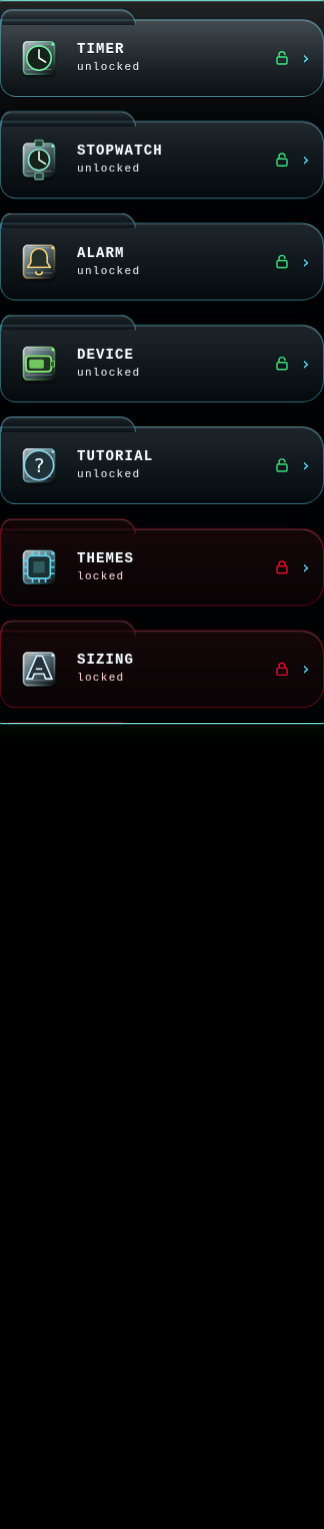
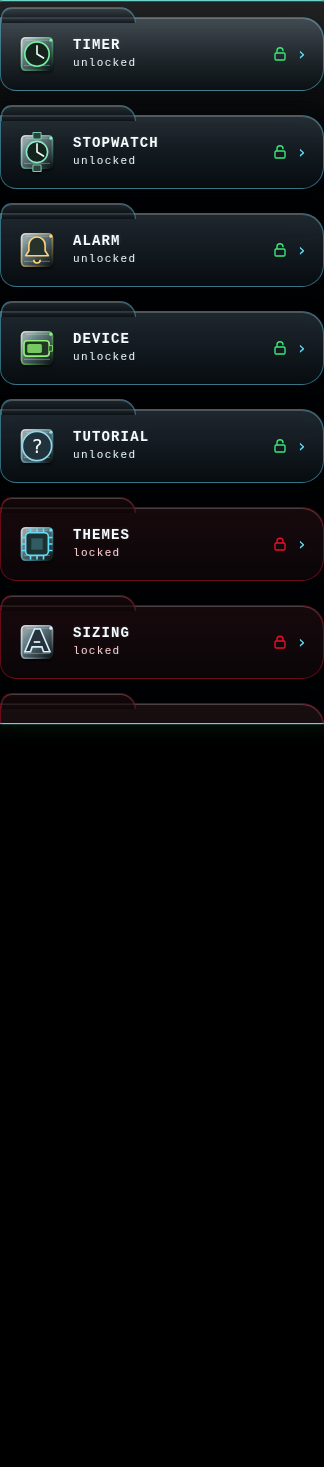
Fix folder edge drops and align 8dp layout

diff --git a/auric-web/src/styles/folders.css b/auric-web/src/styles/folders.css
@@ -23,8 +23,8 @@
   display: inline-flex;
   align-items: center;
   justify-content: center;
-  min-width: 44px;
-  min-height: 44px;
+  min-width: 48px;
+  min-height: 48px;
   border: 1px solid color-mix(in oklab, var(--tx-cyan) 48%, transparent);
   border-radius: 16px;
   background: color-mix(in oklab, var(--tx-bg) 86%, transparent);
@@ -47,11 +47,11 @@
   container-type: inline-size;
   display: grid;
   grid-template-columns: repeat(var(--tx-folder-columns, 1), minmax(0, 1fr));
-  gap: 14px;
+  gap: 16px;
   width: 100%;
   min-width: 0;
   max-width: 100%;
-  margin: 10px 0 16px;
+  margin: 8px 0 16px;
   /* Keep the existing 4px list inset for the legacy folder-list baseline. */
   padding: 8px 0 4px;
   list-style: none;
@@ -65,8 +65,7 @@
   position: relative;
   min-width: 0;
   max-width: 100%;
-  /* The existing folder artwork used a 10px top offset for its tab. */
-  padding-top: 10px;
+  padding-top: 8px;
 }
 .tx-folder-grid[data-layout="single"] > li { min-height: 100%; }
 .tx-folder-tile {
@@ -74,7 +73,7 @@
   width: 100%;
   min-width: 0;
   max-width: 100%;
-  min-height: max(44px, var(--tx-folder-row-height, 72px));
+  min-height: max(48px, var(--tx-folder-row-height, 72px));
   padding: 0;
   overflow: visible;
   touch-action: pan-y;
@@ -82,12 +81,12 @@
 }
 .tx-folder-row {
   grid-template-columns: minmax(24px, var(--tx-folder-icon-size, 56px)) minmax(0, 1fr) auto auto;
-  gap: 10px;
+  gap: 8px;
   min-width: 0;
   max-width: 100%;
-  min-height: max(44px, var(--tx-folder-row-height, 72px));
+  min-height: max(48px, var(--tx-folder-row-height, 72px));
   margin-top: 0;
-  padding: 10px 12px 10px 10px;
+  padding: 8px 16px 8px 8px;
 }
 .tx-folder-icon {
   display: block;
@@ -242,7 +241,7 @@
   left: 8px;
   right: 8px;
   display: grid;
-  grid-template-columns: minmax(0, 1fr) 44px;
+  grid-template-columns: minmax(0, 1fr) 48px;
   align-items: center;
   gap: 8px;
 }
@@ -258,7 +257,7 @@
 .tx-folder-all-size > span { display: flex; justify-content: space-between; gap: 8px; }
 .tx-folder-control-close { grid-column: 2; grid-row: 1; }
 .tx-folder-size-popover input,
-.tx-folder-all-size input { width: 100%; min-height: 44px; accent-color: var(--tx-cyan); }
+.tx-folder-all-size input { width: 100%; min-height: 48px; accent-color: var(--tx-cyan); }
 .tx-folder-rename {
   z-index: 7;
   display: grid;
@@ -270,7 +269,7 @@
 .tx-folder-rename input {
   width: 100%;
   min-width: 0;
-  min-height: 44px;
+  min-height: 48px;
   padding: 8px;
   border: 1px solid color-mix(in oklab, var(--tx-cyan) 72%, transparent);
   border-radius: 8px;
@@ -343,7 +342,7 @@
 .tx-folder-style-name { min-width: 0; overflow: hidden; text-overflow: ellipsis; white-space: nowrap; font: 12px var(--font-type); }
 .tx-folder-style-row select {
   width: 100%;
-  min-height: 44px;
+  min-height: 48px;
   border: 1px solid color-mix(in oklab, var(--tx-cyan) 42%, transparent);
   border-radius: 8px;
   background: var(--tx-bg);

diff --git a/auric-web/src/components/auric/folder-grid.tsx b/auric-web/src/components/auric/folder-grid.tsx
@@ -115,7 +115,7 @@ export function FolderGrid({ preferences, beforeRects, onChangePreferences }: Fo
   const [sizeId, setSizeId] = useState<string | null>(null);
   const [renameId, setRenameId] = useState<string | null>(null);
   const [renameValue, setRenameValue] = useState("");
-  const [renamePlacement, setRenamePlacement] = useState({ left: 0, top: 0, width: 120, height: 44 });
+  const [renamePlacement, setRenamePlacement] = useState({ left: 0, top: 0, width: 120, height: 48 });
   const [singleIndex, setSingleIndex] = useState(0);
 
   const updatePreferences = onChangePreferences;
@@ -174,8 +174,8 @@ export function FolderGrid({ preferences, beforeRects, onChangePreferences }: Fo
     const label = button.querySelector<HTMLElement>(".tx-folder-name")?.getBoundingClientRect();
     if (!label) return;
     const left = Math.max(8, Math.min(tile.width - 56, label.left - tile.left - 8));
-    const top = Math.max(0, label.top - tile.top - Math.max(0, (44 - label.height) / 2));
-    setRenamePlacement({ left, top, width: Math.max(48, Math.min(tile.width - left - 8, Math.max(120, label.width + 16))), height: 44 });
+    const top = Math.max(0, label.top - tile.top - Math.max(0, (48 - label.height) / 2));
+    setRenamePlacement({ left, top, width: Math.max(48, Math.min(tile.width - left - 8, Math.max(120, label.width + 16))), height: 48 });
     setRenameValue(preferences.folderNames[spec.id] ?? spec.pkg);
     setRenameId(spec.id);
     setSizeId(null);
@@ -271,11 +271,18 @@ export function FolderGrid({ preferences, beforeRects, onChangePreferences }: Fo
       const delta = event.clientX - interaction.startX;
       if (Math.abs(delta) >= 48) setSingleIndex((index) => Math.max(0, Math.min(rows.length - 1, index + (delta < 0 ? 1 : -1))));
     } else if (interaction.moved && !interaction.longPressed) {
-      const hovered = [...tileRefs.current].find(([id, item]) => {
-        if (id === interaction.id) return false;
-        const rect = item.getBoundingClientRect();
-        return event.clientX >= rect.left && event.clientX <= rect.right && event.clientY >= rect.top && event.clientY <= rect.bottom;
-      });
+      const insideViewport =
+        event.clientX >= 0 &&
+        event.clientX <= window.innerWidth &&
+        event.clientY >= 0 &&
+        event.clientY <= window.innerHeight;
+      const hovered = insideViewport
+        ? [...tileRefs.current].find(([id, item]) => {
+            if (id === interaction.id) return false;
+            const rect = item.getBoundingClientRect();
+            return event.clientX >= rect.left && event.clientX <= rect.right && event.clientY >= rect.top && event.clientY <= rect.bottom;
+          })
+        : undefined;
       const targetId = hovered?.[0];
       const targetButton = hovered?.[1].querySelector<HTMLButtonElement>(".tx-folder-tile") ?? null;
       const targetRect = targetButton?.getBoundingClientRect();

diff --git a/auric-web/src/lib/folder-layout.ts b/auric-web/src/lib/folder-layout.ts
@@ -92,7 +92,7 @@ export function folderMetrics(size: number, containerWidth: number, layout: Fold
   return {
     iconPx,
     titlePx: 12 + safeSize * 0.04 + (layout === "single" ? 2 : 0),
-    rowHeight: layout === "single" ? Math.max(96, 80 + safeSize * 0.32) : Math.max(44, 56 + safeSize * 0.32),
+    rowHeight: layout === "single" ? Math.max(96, 80 + safeSize * 0.32) : Math.max(48, 56 + safeSize * 0.32),
     columns,
     tileWidth,
   };
@@ -110,7 +110,7 @@ function clampRect(rect: Rect, bounds: Rect): Rect {
 export function paddedLabelRect(tileRect: Rect, labelRect: Rect): Rect {
   const left = Math.max(tileRect.x, labelRect.x - 8);
   const right = Math.min(tileRect.x + tileRect.width, labelRect.x + labelRect.width + 8);
-  const height = Math.max(44, labelRect.height);
+  const height = Math.max(48, labelRect.height);
   const top = labelRect.y - (height - labelRect.height) / 2;
   return clampRect(
     { x: left, y: top, width: Math.max(0, right - left), height },

diff --git a/auric-web/tests/l3-layout.test.ts b/auric-web/tests/l3-layout.test.ts
@@ -29,13 +29,13 @@ test("folder metrics clamp size and choose layout columns by available width", (
   assert.ok(folderMetrics(100, 320, "grid").iconPx < folderMetrics(100, 320, "big").iconPx);
 });
 
-test("label hit zone expands to 44px and stays within tile bounds", () => {
+test("label hit zone expands to 48px and stays within tile bounds", () => {
   const tile = { x: 0, y: 0, width: 160, height: 72 };
   const title = { x: 50, y: 28, width: 42, height: 14 };
   const label = paddedLabelRect(tile, title);
   assert.equal(label.x, 42);
   assert.equal(label.width, 58);
-  assert.equal(label.height, 44);
+  assert.equal(label.height, 48);
   assert.equal(hitZone({ x: 42, y: 50 }, tile, title), "label");
   assert.equal(hitZone({ x: 41, y: 50 }, tile, title), "body");
   assert.equal(hitZone({ x: 159, y: 50 }, tile, title), "body");
